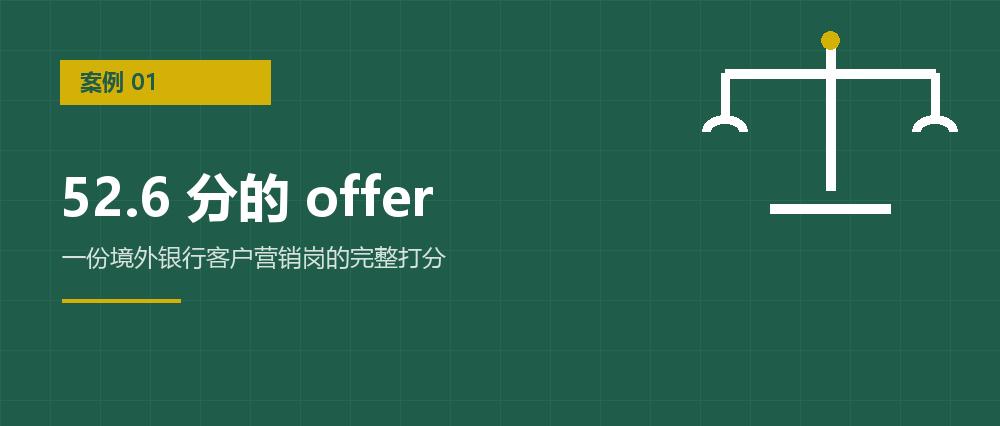
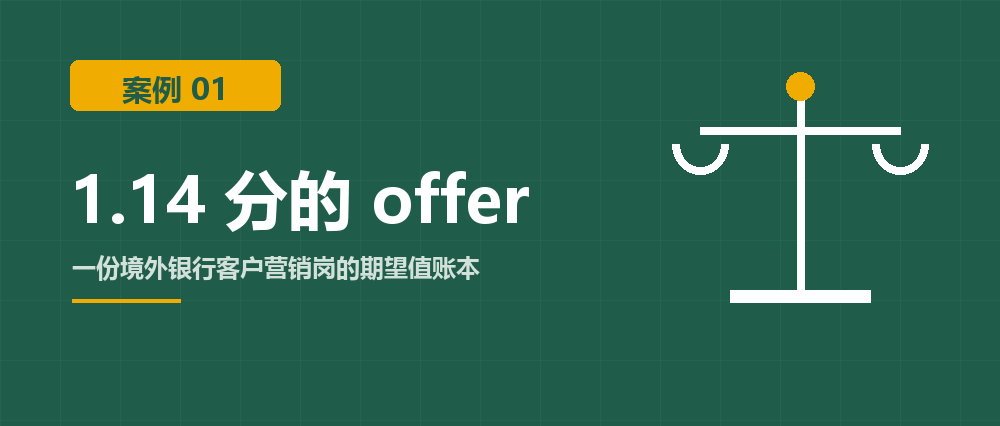
v1.8.0 公式口径重构（凯利模板严格化）：S=p×G−(1−p)×C 单一量纲期望分制，R×L降为提示项（<10警戒/>10允许存档调档），刻度−10..10（2=扣误差带仍正门槛）；案例01重算52.6→1.14并全链路更新（母版改名/素材/封面重制/封面素材+thumb更新/草稿推送），诚实声明二记录勘误；连载02同步2.91/1.14；五参数文档与版本演进文档同步并加修订注记

diff --git a/docs/素材/公众号素材2_案例01.html b/docs/素材/公众号素材2_案例01.html
@@ -6,68 +6,75 @@
 <p style="margin:0 0 14px;font-size:15px;line-height:1.9;">2026 年秋招，我手里有这样一个机会：某国有大行境外分行，客户营销岗。线上笔试，意向工作地在境外——离家六千公里，时差一撮，职业路径和身边所有人都不在一条轨道上。</p>
 <p style="margin:0 0 14px;font-size:15px;line-height:1.9;">意见分两派。一派说：国有大行，稳。一派说：那么远，图什么。</p>
 <p style="margin:0 0 14px;font-size:15px;line-height:1.9;">我发现两派说的是同一种东西：感觉。而且两派都回答不了一个问题——<strong style="color:#1F5C4A;">该投多少？</strong>稳，稳到什么程度值得搬六千公里？远，远到什么程度就该放弃？</p>
-<p style="margin:0 0 14px;font-size:15px;line-height:1.9;">我决定把这道题变成算术题。下面是完整的演算过程，包括我疼的部分。</p>
+<p style="margin:0 0 14px;font-size:15px;line-height:1.9;">我决定把这道题变成算术题。用的是凯利公式的模板——那个在赌桌和交易所用了七十年的仓位公式。下面是完整的演算，包括算出来比我预想难看得多的部分。</p>
 <p style="margin:22px 0 10px;"><strong style="color:#1F5C4A;font-size:17px;">五个数字</strong></p>
 <p style="margin:22px 0 10px;"><strong style="color:#1F5C4A;font-size:17px;">五个数字</strong></p>
 <p style="margin:0 0 14px;font-size:15px;line-height:1.9;">这套算法对每个机会打五个分，每个 1 到 10。</p>
 <p style="margin:0 0 14px;font-size:15px;line-height:1.9;"><strong style="color:#1F5C4A;">p，成功率：6.8。</strong></p>
 <p style="margin:0 0 14px;font-size:15px;line-height:1.9;">问的问题不是"我能不能行"，是"<strong style="color:#1F5C4A;">走这条路的那些前辈，几年后真的活成了我想要的样子吗</strong>"。这条跨境对公条线的路径相对清晰，但境外分行名额少，晋升通道有说不准的成分。我给 6.8。</p>
-<p style="margin:0 0 14px;font-size:15px;line-height:1.9;">然后我把它<strong style="color:#1F5C4A;">除以 1.2</strong>，得 5.7。这是我自己定的纪律：人对成功率的系统性地高估，不除这个数，等于把幻想算进了本金。这一步最疼——但疼的是错觉，不是损失。</p>
+<p style="margin:0 0 14px;font-size:15px;line-height:1.9;">然后我把它<strong style="color:#1F5C4A;">除以 1.2</strong>，得 5.7——换算成概率，0.57。这是我定的纪律：人对成功率的系统性高估，不除这个数，等于把幻想算进了本金。这一步最疼——但疼的是错觉，不是损失。</p>
 <p style="margin:0 0 14px;font-size:15px;line-height:1.9;"><strong style="color:#1F5C4A;">G，上行收益：8。</strong></p>
 <p style="margin:0 0 14px;font-size:15px;line-height:1.9;">成功了带走什么：跨境金融的经验（稀缺）、大行的履历背书、东南亚市场的先发身位。但境外名额少意味着兑现周期长，收益要打折——8 分，是打折后的分。</p>
 <p style="margin:0 0 14px;font-size:15px;line-height:1.9;"><strong style="color:#1F5C4A;">C，下行成本：7.9。</strong></p>
 <p style="margin:0 0 14px;font-size:15px;line-height:1.9;">异国的孤独、时间的损耗，这些人人都会算。但这一项里<strong style="color:#1F5C4A;">必须填机会成本</strong>：我放弃的最优替代是什么？答案是国内银行管培生那条路——安稳、离家近、大概率顺的五年。把它折算成分，它撑起了 7.9 的大头。这份 offer 最贵的地方，不是它苦，是它挤掉的东西值钱。</p>
-<p style="margin:0 0 14px;font-size:15px;line-height:1.9;"><strong style="color:#1F5C4A;">R，可逆性：5.1。</strong></p>
-<p style="margin:0 0 14px;font-size:15px;line-height:1.9;">干砸了能退吗？银行随时可以离职，这是加分项；但跨境履历回国会被折价，应届身份烧掉就没了——两个降分项把它压到 5.1。</p>
-<p style="margin:0 0 14px;font-size:15px;line-height:1.9;"><strong style="color:#1F5C4A;">L，复利性：7。</strong></p>
-<p style="margin:0 0 14px;font-size:15px;line-height:1.9;">攒下的东西会自己长吗？客户资源、跨境业务能力、外语场景，都是离开之后还在增值的资产。7 分。</p>
+<p style="margin:0 0 14px;font-size:15px;line-height:1.9;"><strong style="color:#1F5C4A;">R，可逆性：5.1；L，复利性：7。</strong></p>
+<p style="margin:0 0 14px;font-size:15px;line-height:1.9;">干砸了能退吗？银行随时可以离职是加分项，但跨境履历回国折价、应届身份烧掉就没了——5.1。攒下的东西会自己长吗？客户资源、跨境业务能力、外语场景，都是离开后还在增值的资产——7。</p>
 <p style="margin:22px 0 10px;"><strong style="color:#1F5C4A;font-size:17px;">演算</strong></p>
 <p style="margin:22px 0 10px;"><strong style="color:#1F5C4A;font-size:17px;">演算</strong></p>
-<p style="margin:0 0 14px;font-size:15px;line-height:1.9;"><strong style="color:#1F5C4A;">S = p&#215;G &#8722; (1&#8722;p)&#215;C + 0.3&#215;R&#215;L</strong></p>
-<p style="margin:0 0 14px;font-size:15px;line-height:1.9;">口径：p&#215;G 用修正后的分；(1&#8722;p) 里的 p 取概率（分数&#247;10）。</p>
-<p style="margin:0 0 14px;font-size:15px;line-height:1.9;">= 5.67&#215;8 &#8722; 0.43&#215;7.9 + 0.3&#215;5.1&#215;7</p>
-<p style="margin:0 0 14px;font-size:15px;line-height:1.9;">= 45.3 &#8722; 3.4 + 10.7</p>
-<p style="margin:0 0 14px;font-size:15px;line-height:1.9;">= <strong style="color:#1F5C4A;">52.6</strong></p>
-<p style="margin:0 0 14px;font-size:15px;line-height:1.9;">顺带一提 R&#215;L = 35.7，远在 10 的警戒线之上——先查过出口，这个局是能进的了。</p>
-<p style="margin:22px 0 10px;"><strong style="color:#1F5C4A;font-size:17px;">52.6 为什么敢叫重仓</strong></p>
-<p style="margin:22px 0 10px;"><strong style="color:#1F5C4A;font-size:17px;">52.6 为什么敢叫重仓</strong></p>
-<p style="margin:0 0 14px;font-size:15px;line-height:1.9;">先交代刻度是怎么来的，因为"分数高所以重仓"是最容易被滥用的推理。</p>
-<p style="margin:0 0 14px;font-size:15px;line-height:1.9;">五个参数打分，每个都允许 &#177;1 的估计误差。p 的误差最贵——它同时放大 G 和 C 两项；G、C、R、L 各自再贡献一点。五项叠完，S 的真实值可能比算出来的<strong style="color:#1F5C4A;">低 15 分上下</strong>。所以刻度只有三档：</p>
+<p style="margin:0 0 14px;font-size:15px;line-height:1.9;">凯利公式的骨架是两项：<strong style="color:#1F5C4A;">成功率乘收益，减去失败率乘损失</strong>。迁到职业上：</p>
+<p style="margin:0 0 14px;font-size:15px;line-height:1.9;"><strong style="color:#1F5C4A;">S = p&#215;G &#8722; (1&#8722;p)&#215;C</strong></p>
+<p style="margin:0 0 14px;font-size:15px;line-height:1.9;">口径：全式一个量纲——概率乘分（期望分，满分 10 的刻度）。p 取概率（分数&#247;10）。</p>
+<p style="margin:0 0 14px;font-size:15px;line-height:1.9;">= 0.567&#215;8 &#8722; 0.433&#215;7.9</p>
+<p style="margin:0 0 14px;font-size:15px;line-height:1.9;">= 4.54 &#8722; 3.40</p>
+<p style="margin:0 0 14px;font-size:15px;line-height:1.9;">= <strong style="color:#1F5C4A;">1.14</strong></p>
+<p style="margin:0 0 14px;font-size:15px;line-height:1.9;">没有第三个加分项。但凯利的骨架管不到所有东西，所以这个体系在总分之外设了一个<strong style="color:#1F5C4A;">提示项</strong>：R&#215;L = 5.1&#215;7 = <strong style="color:#1F5C4A;">35.7</strong>。它不进总分，只做两件事——</p>
+<ul style="margin:0 0 14px;padding-left:22px;">
+<li style="font-size:15px;line-height:1.9;margin:0 0 6px;"><strong style="color:#1F5C4A;">R&#215;L &lt; 10：警戒</strong>。无论总分多高，最高轻仓，外加 12 个月止损线（防"工资还行"的消耗型陷阱）；</li>
+<li style="font-size:15px;line-height:1.9;margin:0 0 6px;"><strong style="color:#1F5C4A;">R&#215;L 高：提示</strong>。存在没进总分的上行——复利、期权、攒得下的资产——提醒你打分时别漏，也给了总分一个<strong style="color:#1F5C4A;">有理由的调档空间</strong>。</li>
+</ul>
+<p style="margin:0 0 14px;font-size:15px;line-height:1.9;">35.7，远在警戒线之上，且明确提示：这份 offer 的账面下藏着一笔没入账的复利。</p>
+<p style="margin:22px 0 10px;"><strong style="color:#1F5C4A;font-size:17px;">1.14 为什么还敢投</strong></p>
+<p style="margin:22px 0 10px;"><strong style="color:#1F5C4A;font-size:17px;">1.14 为什么还敢投</strong></p>
+<p style="margin:0 0 14px;font-size:15px;line-height:1.9;">先交代刻度，因为"分数高所以重仓"是最容易被滥用的推理。</p>
+<p style="margin:0 0 14px;font-size:15px;line-height:1.9;">期望分的刻度是 &#8722;10 到 10。五个参数各允许 &#177;1 分的估计误差，p 的误差同时摆动两项，叠加后 <strong style="color:#1F5C4A;">S 的真实值可能比算出来的低 1.5 分左右</strong>。刻度三档：</p>
 <ul style="margin:0 0 14px;padding-left:22px;">
 <li style="font-size:15px;line-height:1.9;margin:0 0 6px;"><strong style="color:#1F5C4A;">S &lt; 0</strong>：负期望，不打；</li>
-<li style="font-size:15px;line-height:1.9;margin:0 0 6px;"><strong style="color:#1F5C4A;">0 到 20</strong>：期望是正的，但泡在误差带里——真实值可能是负数，只配轻仓，错了当学费；</li>
-<li style="font-size:15px;line-height:1.9;margin:0 0 6px;"><strong style="color:#1F5C4A;">20 以上</strong>：把最大的估计误差整个扣掉，剩下的还是正的——这才轮到"重仓"这个词。</li>
+<li style="font-size:15px;line-height:1.9;margin:0 0 6px;"><strong style="color:#1F5C4A;">0 到 2</strong>：期望为正——而 2 这条线是算出来的：S=2 时扣除 1.5 的误差带仍剩正数，才谈得上重仓；</li>
+<li style="font-size:15px;line-height:1.9;margin:0 0 6px;"><strong style="color:#1F5C4A;">S &gt; 2</strong>：把最大估计误差整个扣掉，剩下的还是正的——重仓区。</li>
 </ul>
-<p style="margin:0 0 14px;font-size:15px;line-height:1.9;">52.6 超出误差带上限约 35 分。它不是"还行"，是把最坏的手气也算进去之后，依然是顺子的那种牌。</p>
+<p style="margin:0 0 14px;font-size:15px;line-height:1.9;">1.14 落在哪里？<strong style="color:#1F5C4A;">0 到 2 之间，误差带的里面。</strong>单看总分，这道题的真实读法是：期望为正、但不够硬，<strong style="color:#1F5C4A;">只支持"持有"，不支持"重仓"</strong>。</p>
+<p style="margin:0 0 14px;font-size:15px;line-height:1.9;">那为什么还是按了投递键？因为总分不是全部证据。R&#215;L=35.7 的提示项说的是：这 1.14 里<strong style="color:#1F5C4A;">没有计入</strong>复利部分——客户、跨境能力、外语场景，这些资产不在 p&#215;G 里，它们是这份工作"干成了之后自己会长"的部分。提示项的规则是：<strong style="color:#1F5C4A;">允许据此上调一档仓位，但理由必须写下来存档，事后可查。</strong></p>
+<p style="margin:0 0 14px;font-size:15px;line-height:1.9;">存档如下：依据 R&#215;L 提示，仓位从"持有"上调一档至"重仓"——同时承认，若两年后复利资产没有兑现，这次调档就是这次决策里唯一的错误来源。复核时间：2028 年秋。</p>
 <p style="margin:22px 0 10px;"><strong style="color:#1F5C4A;font-size:17px;">两条路径在这里重合</strong></p>
 <p style="margin:22px 0 10px;"><strong style="color:#1F5C4A;font-size:17px;">两条路径在这里重合</strong></p>
-<p style="margin:0 0 14px;font-size:15px;line-height:1.9;">这道题有个隐藏条件必须摊开：52.6 是在"<strong style="color:#1F5C4A;">这个机会确定到手</strong>"的假设下算出来的。</p>
+<p style="margin:0 0 14px;font-size:15px;line-height:1.9;">这道题有个隐藏条件必须摊开：S 是在"<strong style="color:#1F5C4A;">这个机会确定到手</strong>"的假设下算出来的。</p>
 <p style="margin:0 0 14px;font-size:15px;line-height:1.9;">完整的模型其实是两层。第一层是<strong style="color:#1F5C4A;">资格层</strong>——别人要不要你：招聘成功率多高，短板会不会被一票否决。第二层才是<strong style="color:#1F5C4A;">投入层</strong>——确定到手之后，你该押多少。两把尺子，混在一起量只会互相污染。</p>
-<p style="margin:0 0 14px;font-size:15px;line-height:1.9;">这篇算的是第二层。做法是把资格层参数取固定值：把"会不会被拒"从变量箱里拿走，条件设为"已获得 offer"，此时资格层不再扣分、不再波动，全部注意力集中在五个参数上。这不是回避资格问题，是分工——那把尺子另有一篇（番外《资格期断桥》）。事实上，写下这些字的时候我还在等笔试通知，我本人此刻就站在那把尺子的刻度上。</p>
-<p style="margin:0 0 14px;font-size:15px;line-height:1.9;">所以 52.6 的正确读法是：<strong style="color:#1F5C4A;">假如它到手，它值 52.6。</strong>至于"我能不能拿到它"，不在这张卷子上。两条路径在"确定到手"这个点汇合——S 公式就是汇合点之后的全部内容。</p>
+<p style="margin:0 0 14px;font-size:15px;line-height:1.9;">这篇算的是第二层。做法是把资格层参数取固定值：把"会不会被拒"从变量箱里拿走，条件设为"已获得 offer"，此时第一项里的成功率只剩"合同兑现的可能性"。这不是回避资格问题，是分工——那把尺子另有一篇（番外《资格期断桥》）。事实上，写下这些字的时候我还在等笔试通知，我本人此刻就站在那把尺子的刻度上。</p>
+<p style="margin:0 0 14px;font-size:15px;line-height:1.9;">所以 1.14 的正确读法是：<strong style="color:#1F5C4A;">假如它到手，它值 1.14。</strong>至于"我能不能拿到它"，不在这张卷子上。两条路径在"确定到手"这个点汇合——凯利模板就是汇合点之后的全部内容。</p>
 <p style="margin:22px 0 10px;"><strong style="color:#1F5C4A;font-size:17px;">按下投递键之后</strong></p>
 <p style="margin:22px 0 10px;"><strong style="color:#1F5C4A;font-size:17px;">按下投递键之后</strong></p>
 <p style="margin:0 0 14px;font-size:15px;line-height:1.9;">重仓不是一句"我投了"。它落在三件具体的事上：</p>
 <p style="margin:0 0 14px;font-size:15px;line-height:1.9;">投递之后，把秋招的精力向这条线倾斜，不再往同类境外岗上分散火力；把六千公里设为预设——此后所有机会都以它为参照系；以及，把最坏的那种结局（干两年不合适、带折价回国重来）在 C 里预付过价，从此不再反复想象它。</p>
 <p style="margin:0 0 14px;font-size:15px;line-height:1.9;">要说体感：按下去之后反而安静了。焦虑的大头来自"该不该"悬而未决，这道题算完，"该不该"就关闭了——剩下的只是"成不成"，那是市场的事，不该再消耗我。</p>
-<p style="margin:0 0 14px;font-size:15px;line-height:1.9;">发布这篇文章的时候，笔试通知还没来。后续连载会交代这道例题的真实后续，无论是什么。</p>
-<p style="margin:0 0 14px;font-size:15px;line-height:1.9;">（诚实声明：文中五个分值是发布时按当时的决策逻辑整理的版本，原始分值没有同步存档——这后来成了这套纪律的第一条教训：<strong style="color:#1F5C4A;">分数必须存档，否则复盘无从谈起</strong>。）</p>
+<p style="margin:0 0 14px;font-size:15px;line-height:1.9;">发布这篇文章的时候，笔试通知还没来。后续连载会交代这道例题的真实后续，无论是什么——包括 2028 年那次调档复核，谁对谁错，届时见分晓。</p>
+<p style="margin:0 0 14px;font-size:15px;line-height:1.9;">（诚实声明一：文中五个分值是发布时按当时的决策逻辑整理的版本，原始分值没有同步存档——这后来成了这套纪律的第一条教训：<strong style="color:#1F5C4A;">分数必须存档，否则复盘无从谈起</strong>。</p>
+<p style="margin:0 0 14px;font-size:15px;line-height:1.9;">诚实声明二：这套算法的第一版把三项混在一个量纲里算出一个 52.6 的大数，单位不齐。本文发布前已按凯利模板修正为两项严格同量纲、复利项降为提示项的结构——1.14 就是修正后的第一个输出。<strong style="color:#1F5C4A;">错了就改，改了存档</strong>，这句承诺从这里开始兑现。）</p>
 <p style="margin:22px 0 10px;"><strong style="color:#1F5C4A;font-size:17px;">这道题最容易跳过的三步</strong></p>
 <p style="margin:22px 0 10px;"><strong style="color:#1F5C4A;font-size:17px;">这道题最容易跳过的三步</strong></p>
 <ol style="margin:0 0 14px;padding-left:22px;">
-<li style="font-size:15px;line-height:1.9;margin:0 0 6px;">1. <strong style="color:#1F5C4A;">p 除以 1.2。</strong>不除的话，这道题算出来是 59.7——好看得多，但多出来的七分是幻觉的溢价。决策依据不能含有幻觉成分；</li>
+<li style="font-size:15px;line-height:1.9;margin:0 0 6px;">1. <strong style="color:#1F5C4A;">p 除以 1.2。</strong>不除的话，这道题算出来是 2.91——好看得多，但多出来的 1.77 分是幻觉的溢价。决策依据不能含有幻觉成分；</li>
 <li style="font-size:15px;line-height:1.9;margin:0 0 6px;">2. <strong style="color:#1F5C4A;">C 里必须填机会成本。</strong>只列"这份工作多苦"不列"我放弃了什么"，是这类比较里最常见的一种自欺。这份 offer 的 C 里，大头是被挤掉的那条安稳的路；</li>
-<li style="font-size:15px;line-height:1.9;margin:0 0 6px;">3. <strong style="color:#1F5C4A;">先查 R&#215;L，再看总分。</strong>35.7，过关，进入正常刻度。假如它低于 10——比如一个把人锁死的行业标签型岗位——无论总分多高，纪律都只给最高轻仓，外加 12 个月止损线。出口比分数优先。</li>
+<li style="font-size:15px;line-height:1.9;margin:0 0 6px;">3. <strong style="color:#1F5C4A;">先查提示项，再看总分。</strong>R&#215;L 低于 10 的局——比如把人锁死的行业标签型岗位——无论总分多高，纪律都只给最高轻仓，外加 12 个月止损线。出口比分数优先。</li>
 </ol>
 <p style="margin:22px 0 10px;"><strong style="color:#1F5C4A;font-size:17px;">它管不到的地方</strong></p>
 <p style="margin:22px 0 10px;"><strong style="color:#1F5C4A;font-size:17px;">它管不到的地方</strong></p>
 <p style="margin:0 0 14px;font-size:15px;line-height:1.9;">这道题能算，前提是它的风险全部属于"可逆的辛苦"：孤独、不确定、试错成本，都在刻度以内。如果换一个决策，代价是健康、自由，或者任何不可逆的东西——这套公式会拒绝作答。那不是它的弱点，是它的边界，边界写在《我不度量什么》里。</p>
-<p style="margin:0 0 14px;font-size:15px;line-height:1.9;">52.6 不保证赢。它只保证一件事：在信息允许的范围内，这一手牌的每一分钱都记过账——输了知道亏在哪，赢了知道赚的是哪部分。</p>
+<p style="margin:0 0 14px;font-size:15px;line-height:1.9;">1.14 不保证赢。它只保证一件事：在信息允许的范围内，这一手牌的每一分钱都记过账——输了知道亏在哪，赢了知道赚的是哪部分，连"为什么敢投"的额外理由都有一行存档。</p>
 <p style="margin:22px 0 10px;"><strong style="color:#1F5C4A;font-size:17px;">这套公式还在长</strong></p>
 <p style="margin:22px 0 10px;"><strong style="color:#1F5C4A;font-size:17px;">这套公式还在长</strong></p>
-<p style="margin:0 0 14px;font-size:15px;line-height:1.9;">必须交代：本文用的是<strong style="color:#1F5C4A;">第一版公式</strong>，定位是<strong style="color:#1F5C4A;">单个机会的粗略估计</strong>。它的自洽不靠精确，靠三条纪律兜底：负期望不打、轻仓区给误差留了位置、重仓前先过 R&#215;L 警戒线。</p>
+<p style="margin:0 0 14px;font-size:15px;line-height:1.9;">必须交代：本文用的是<strong style="color:#1F5C4A;">第一版公式</strong>——凯利两项骨架加一个提示项，定位是<strong style="color:#1F5C4A;">单个机会的粗略估计</strong>。它的自洽不靠精确，靠三条纪律兜底：负期望不打、轻仓区给误差留了位置、任何调档必须存档理由。</p>
 <p style="margin:0 0 14px;font-size:15px;line-height:1.9;">后续的路线图：<strong style="color:#1F5C4A;">第二版</strong>做目标机会与现有机会的差值评估——不再孤立打分，而是比"这一手比手里那手好多少"；<strong style="color:#1F5C4A;">第三版</strong>引入市场评估；<strong style="color:#1F5C4A;">第四版</strong>处理主观博弈；<strong style="color:#1F5C4A;">第五版</strong>让非量化因素以受控的方式介入；<strong style="color:#1F5C4A;">第六版</strong>收束为人生决策的基础模型。每一版都拿真实案例校准，错了就改，改了存档。</p>
-<p style="margin:0 0 14px;font-size:15px;line-height:1.9;">所以，请把 52.6 当作 v1 的诚实输出，而不是终审判决。它已经比"稳不稳、图什么"的纯感觉多交代了五个变量的账——起点该有的样子，就是这样了。</p>
+<p style="margin:0 0 14px;font-size:15px;line-height:1.9;">所以，请把 1.14 当作 v1 的诚实输出，而不是终审判决。它已经比"稳不稳、图什么"的纯感觉多交代了五个变量的账——起点该有的样子，就是这样了。</p>
 <hr style="border:none;border-top:1px solid #DDD;margin:18px 0;"/>
 <p style="margin:0 0 14px;font-size:15px;line-height:1.9;"><em>五个参数各自怎么打分，见《五参数计算方式》；资格层那把尺子，见《资格期断桥》。体系全文免费公开（CC BY-NC-SA 4.0），本文不构成任何岗位推荐。</em></p>
 </div>

diff --git a/docs/案例01_工银泰国1.14.md b/docs/案例01_工银泰国1.14.md
@@ -1,0 +1,114 @@
+# 一份 1.14 分的 offer，和我按下去的投递键
+
+> 《决策进阶课程：从岗位投入到人生选择》· 案例复盘 01
+> 基于真实决策（岗位信息已脱敏；分值系发布时依决策逻辑整理，方法论与结论与当时一致）。体系全文免费公开（CC BY-NC-SA 4.0）。
+
+## 桌上的那道题
+
+2026 年秋招，我手里有这样一个机会：某国有大行境外分行，客户营销岗。线上笔试，意向工作地在境外——离家六千公里，时差一撮，职业路径和身边所有人都不在一条轨道上。
+
+意见分两派。一派说：国有大行，稳。一派说：那么远，图什么。
+
+我发现两派说的是同一种东西：感觉。而且两派都回答不了一个问题——**该投多少？**稳，稳到什么程度值得搬六千公里？远，远到什么程度就该放弃？
+
+我决定把这道题变成算术题。用的是凯利公式的模板——那个在赌桌和交易所用了七十年的仓位公式。下面是完整的演算，包括算出来比我预想难看得多的部分。
+
+## 五个数字
+
+这套算法对每个机会打五个分，每个 1 到 10。
+
+**p，成功率：6.8。**
+问的问题不是"我能不能行"，是"**走这条路的那些前辈，几年后真的活成了我想要的样子吗**"。这条跨境对公条线的路径相对清晰，但境外分行名额少，晋升通道有说不准的成分。我给 6.8。
+
+然后我把它**除以 1.2**，得 5.7——换算成概率，0.57。这是我定的纪律：人对成功率的系统性高估，不除这个数，等于把幻想算进了本金。这一步最疼——但疼的是错觉，不是损失。
+
+**G，上行收益：8。**
+成功了带走什么：跨境金融的经验（稀缺）、大行的履历背书、东南亚市场的先发身位。但境外名额少意味着兑现周期长，收益要打折——8 分，是打折后的分。
+
+**C，下行成本：7.9。**
+异国的孤独、时间的损耗，这些人人都会算。但这一项里**必须填机会成本**：我放弃的最优替代是什么？答案是国内银行管培生那条路——安稳、离家近、大概率顺的五年。把它折算成分，它撑起了 7.9 的大头。这份 offer 最贵的地方，不是它苦，是它挤掉的东西值钱。
+
+**R，可逆性：5.1；L，复利性：7。**
+干砸了能退吗？银行随时可以离职是加分项，但跨境履历回国折价、应届身份烧掉就没了——5.1。攒下的东西会自己长吗？客户资源、跨境业务能力、外语场景，都是离开后还在增值的资产——7。
+
+## 演算
+
+凯利公式的骨架是两项：**成功率乘收益，减去失败率乘损失**。迁到职业上：
+
+**S = p×G − (1−p)×C**
+
+口径：全式一个量纲——概率乘分（期望分，满分 10 的刻度）。p 取概率（分数÷10）。
+
+= 0.567×8 − 0.433×7.9
+= 4.54 − 3.40
+= **1.14**
+
+没有第三个加分项。但凯利的骨架管不到所有东西，所以这个体系在总分之外设了一个**提示项**：R×L = 5.1×7 = **35.7**。它不进总分，只做两件事——
+
+- **R×L < 10：警戒**。无论总分多高，最高轻仓，外加 12 个月止损线（防"工资还行"的消耗型陷阱）；
+- **R×L 高：提示**。存在没进总分的上行——复利、期权、攒得下的资产——提醒你打分时别漏，也给了总分一个**有理由的调档空间**。
+
+35.7，远在警戒线之上，且明确提示：这份 offer 的账面下藏着一笔没入账的复利。
+
+## 1.14 为什么还敢投
+
+先交代刻度，因为"分数高所以重仓"是最容易被滥用的推理。
+
+期望分的刻度是 −10 到 10。五个参数各允许 ±1 分的估计误差，p 的误差同时摆动两项，叠加后 **S 的真实值可能比算出来的低 1.5 分左右**。刻度三档：
+
+- **S < 0**：负期望，不打；
+- **0 到 2**：期望为正——而 2 这条线是算出来的：S=2 时扣除 1.5 的误差带仍剩正数，才谈得上重仓；
+- **S > 2**：把最大估计误差整个扣掉，剩下的还是正的——重仓区。
+
+1.14 落在哪里？**0 到 2 之间，误差带的里面。**单看总分，这道题的真实读法是：期望为正、但不够硬，**只支持"持有"，不支持"重仓"**。
+
+那为什么还是按了投递键？因为总分不是全部证据。R×L=35.7 的提示项说的是：这 1.14 里**没有计入**复利部分——客户、跨境能力、外语场景，这些资产不在 p×G 里，它们是这份工作"干成了之后自己会长"的部分。提示项的规则是：**允许据此上调一档仓位，但理由必须写下来存档，事后可查。**
+
+存档如下：依据 R×L 提示，仓位从"持有"上调一档至"重仓"——同时承认，若两年后复利资产没有兑现，这次调档就是这次决策里唯一的错误来源。复核时间：2028 年秋。
+
+## 两条路径在这里重合
+
+这道题有个隐藏条件必须摊开：S 是在"**这个机会确定到手**"的假设下算出来的。
+
+完整的模型其实是两层。第一层是**资格层**——别人要不要你：招聘成功率多高，短板会不会被一票否决。第二层才是**投入层**——确定到手之后，你该押多少。两把尺子，混在一起量只会互相污染。
+
+这篇算的是第二层。做法是把资格层参数取固定值：把"会不会被拒"从变量箱里拿走，条件设为"已获得 offer"，此时第一项里的成功率只剩"合同兑现的可能性"。这不是回避资格问题，是分工——那把尺子另有一篇（番外《资格期断桥》）。事实上，写下这些字的时候我还在等笔试通知，我本人此刻就站在那把尺子的刻度上。
+
+所以 1.14 的正确读法是：**假如它到手，它值 1.14。**至于"我能不能拿到它"，不在这张卷子上。两条路径在"确定到手"这个点汇合——凯利模板就是汇合点之后的全部内容。
+
+## 按下投递键之后
+
+重仓不是一句"我投了"。它落在三件具体的事上：
+
+投递之后，把秋招的精力向这条线倾斜，不再往同类境外岗上分散火力；把六千公里设为预设——此后所有机会都以它为参照系；以及，把最坏的那种结局（干两年不合适、带折价回国重来）在 C 里预付过价，从此不再反复想象它。
+
+要说体感：按下去之后反而安静了。焦虑的大头来自"该不该"悬而未决，这道题算完，"该不该"就关闭了——剩下的只是"成不成"，那是市场的事，不该再消耗我。
+
+发布这篇文章的时候，笔试通知还没来。后续连载会交代这道例题的真实后续，无论是什么——包括 2028 年那次调档复核，谁对谁错，届时见分晓。
+
+（诚实声明一：文中五个分值是发布时按当时的决策逻辑整理的版本，原始分值没有同步存档——这后来成了这套纪律的第一条教训：**分数必须存档，否则复盘无从谈起**。
+诚实声明二：这套算法的第一版把三项混在一个量纲里算出一个 52.6 的大数，单位不齐。本文发布前已按凯利模板修正为两项严格同量纲、复利项降为提示项的结构——1.14 就是修正后的第一个输出。**错了就改，改了存档**，这句承诺从这里开始兑现。）
+
+## 这道题最容易跳过的三步
+
+1. **p 除以 1.2。**不除的话，这道题算出来是 2.91——好看得多，但多出来的 1.77 分是幻觉的溢价。决策依据不能含有幻觉成分；
+2. **C 里必须填机会成本。**只列"这份工作多苦"不列"我放弃了什么"，是这类比较里最常见的一种自欺。这份 offer 的 C 里，大头是被挤掉的那条安稳的路；
+3. **先查提示项，再看总分。**R×L 低于 10 的局——比如把人锁死的行业标签型岗位——无论总分多高，纪律都只给最高轻仓，外加 12 个月止损线。出口比分数优先。
+
+## 它管不到的地方
+
+这道题能算，前提是它的风险全部属于"可逆的辛苦"：孤独、不确定、试错成本，都在刻度以内。如果换一个决策，代价是健康、自由，或者任何不可逆的东西——这套公式会拒绝作答。那不是它的弱点，是它的边界，边界写在《我不度量什么》里。
+
+1.14 不保证赢。它只保证一件事：在信息允许的范围内，这一手牌的每一分钱都记过账——输了知道亏在哪，赢了知道赚的是哪部分，连"为什么敢投"的额外理由都有一行存档。
+
+## 这套公式还在长
+
+必须交代：本文用的是**第一版公式**——凯利两项骨架加一个提示项，定位是**单个机会的粗略估计**。它的自洽不靠精确，靠三条纪律兜底：负期望不打、轻仓区给误差留了位置、任何调档必须存档理由。
+
+后续的路线图：**第二版**做目标机会与现有机会的差值评估——不再孤立打分，而是比"这一手比手里那手好多少"；**第三版**引入市场评估；**第四版**处理主观博弈；**第五版**让非量化因素以受控的方式介入；**第六版**收束为人生决策的基础模型。每一版都拿真实案例校准，错了就改，改了存档。
+
+所以，请把 1.14 当作 v1 的诚实输出，而不是终审判决。它已经比"稳不稳、图什么"的纯感觉多交代了五个变量的账——起点该有的样子，就是这样了。
+
+---
+
+*五个参数各自怎么打分，见《五参数计算方式》；资格层那把尺子，见《资格期断桥》。体系全文免费公开（CC BY-NC-SA 4.0），本文不构成任何岗位推荐。*

diff --git a/docs/连载/连载02_先除以1.2.md b/docs/连载/连载02_先除以1.2.md
@@ -5,9 +5,9 @@
 
 我给一份境外 offer 打分的时候，成功率这一项，我写的是 6.8。
 
-写完我干了一件让身边人无法理解的事：把这个数**除以 1.2**，得到 5.7，然后用 5.7 去算。6.8 直接算出来是 59.7 分，除完只剩 52.6 分——七分，就这么没了。
+写完我干了一件让身边人无法理解的事：把这个数**除以 1.2**，得到 5.7，换算成概率 0.57，然后用它去算。不除的话，那份 offer 的期望值是 2.91 分；除完只剩 **1.14 分**——将近两分，就这么没了。
 
-七分是什么概念？按我那套仓位的分法，它不够改变"要不要"的结论，但足以让"押多大"从孤注一掷降到全情投入。换句话说：**这一除，把一次豪赌变成了一次重仓。**
+将近两分是什么概念？按我那套刻度（满分 10 的期望值），它不够改变"要不要"的结论，但足以让"押多大"从越线重仓降到擦线持有。换句话说：**这一除，把一次看似的碾压变成了一次需要理由的重仓。**
 
 这篇文章说的就是这一除。它是我整套决策算法里最疼、也最省钱的一步。
 
@@ -39,7 +39,7 @@ p 取 5.7（除过修正的概率分，换算成概率约 0.57），上行收益
 
 但注意 C 那一项的系数：失败概率是 1 − 0.57 = 0.43。也就是说，**你越觉得稳，失败那部分在你心里的音量就越小**。而这份 offer 的失败面并不小：六千公里、人生地不熟、错过整个国内秋招窗口。这些代价不会因为你自信就消失，只会因为你自信就不被计算。
 
-除以 1.2 的真正意义在这里：它把失败概率从 0.32 拉回到 0.43，**把你在兴奋时静音的那些代价重新打开**。分数从 59.7 掉到 52.6，掉掉的全是幻觉的溢价。
+除以 1.2 的真正意义在这里：它把失败概率从 0.32 拉回到 0.43，**把你在兴奋时静音的那些代价重新打开**。期望值从 2.91 掉到 1.14，掉掉的全是幻觉的溢价。
 
 ## 三个立刻能用的动作
 

diff --git a/docs/参数拆解_五参数计算方式.md b/docs/参数拆解_五参数计算方式.md
@@ -1,7 +1,7 @@
 # 五参数计算方式拆解
 
 > 决策体系 · 方法论文档 · 配套《案例01》使用
-> 口径：S = p×G − (1−p)×C + 0.3×R×L；资格层（E）参数另见《资格层公式 E 模型设计稿》，本文只拆投入层。
+> 口径（2026-10-05 按凯利模板修正后）：**S = p×G − (1−p)×C**，全式单一量纲（概率×分，期望分制，满分 10）；**R×L 为提示项，不进总分**——R×L<10 警戒（最高轻仓+12个月止损），R×L 高则提示存在未入账上行，允许据此调档一档但理由必须存档。刻度：S<0 不打 ｜ 0–2 持有 ｜ >2 重仓（2 = 扣除±1.5误差带仍为正的门槛）。资格层（E）参数另见《资格层公式 E 模型设计稿》，本文只拆投入层。
 > ⚠ 口径预告：本文 C 含机会成本，属 v1 口径；v2 差值评估中机会成本被差值结构吸收，届时 C 将重定义为纯下行成本（明面+时间），详见《版本演进_权重侧重分析》。
 > 适用前提：机会**确定到手**（资格层参数取固定值后的条件打分）。
 
@@ -115,7 +115,7 @@
 5. R：两问 + 一次性窗口修正；
 6. L：资产型/消耗型判别 → 锚点；
 7. 查 R×L 是否 <10（是 → 封顶轻仓 + 止损线）；
-8. 代入 S = p×G − (1−p)×C + 0.3×R×L，对刻度读仓位（<0 不打 / 0–20 轻仓 / >20 重仓）；
+8. 代入 S = p×G − (1−p)×C（期望分制），对刻度读仓位（<0 不打 / 0–2 持有 / >2 重仓）；
 9. 把五个分数和证据源**存档**——下次复盘对比，这是体系自我校准的唯一途径。
 
 ---

diff --git a/docs/版本演进_权重侧重分析.md b/docs/版本演进_权重侧重分析.md
@@ -2,6 +2,7 @@
 
 > 决策体系 · 内部设计文档 · 配套《五参数计算方式》《资格层公式 E 模型设计稿》
 > 目的：对路线图 v2–v6 逐版拆解，检查每一版能否**清晰体现对新因素的侧重引入，以及对旧因素权重的吸收、降级或重定义**——避免"新版本=旧版本加补丁"的堆叠式演进。
+> ⚠ 口径修订注记（2026-10-05，v1.8.0）：本文写作时的 v1 基线（三项混合量纲，S=52.6）已在发布前修正为凯利模板两项同量纲结构（S = p×G − (1−p)×C，期望分制，案例01 重算为 1.14），R×L 降为提示项。本文第 0 节对旧结构的体检结论（成本项权重随 p 缩水、占 6.5%）在**严格同量纲口径下更严重**——(1−p)×C=3.40 vs p×G=4.54，成本项占期望项的 75%，病灶不是减轻而是更清晰；v2 差值评估的必要性不变且更强。
 
 ---
 
